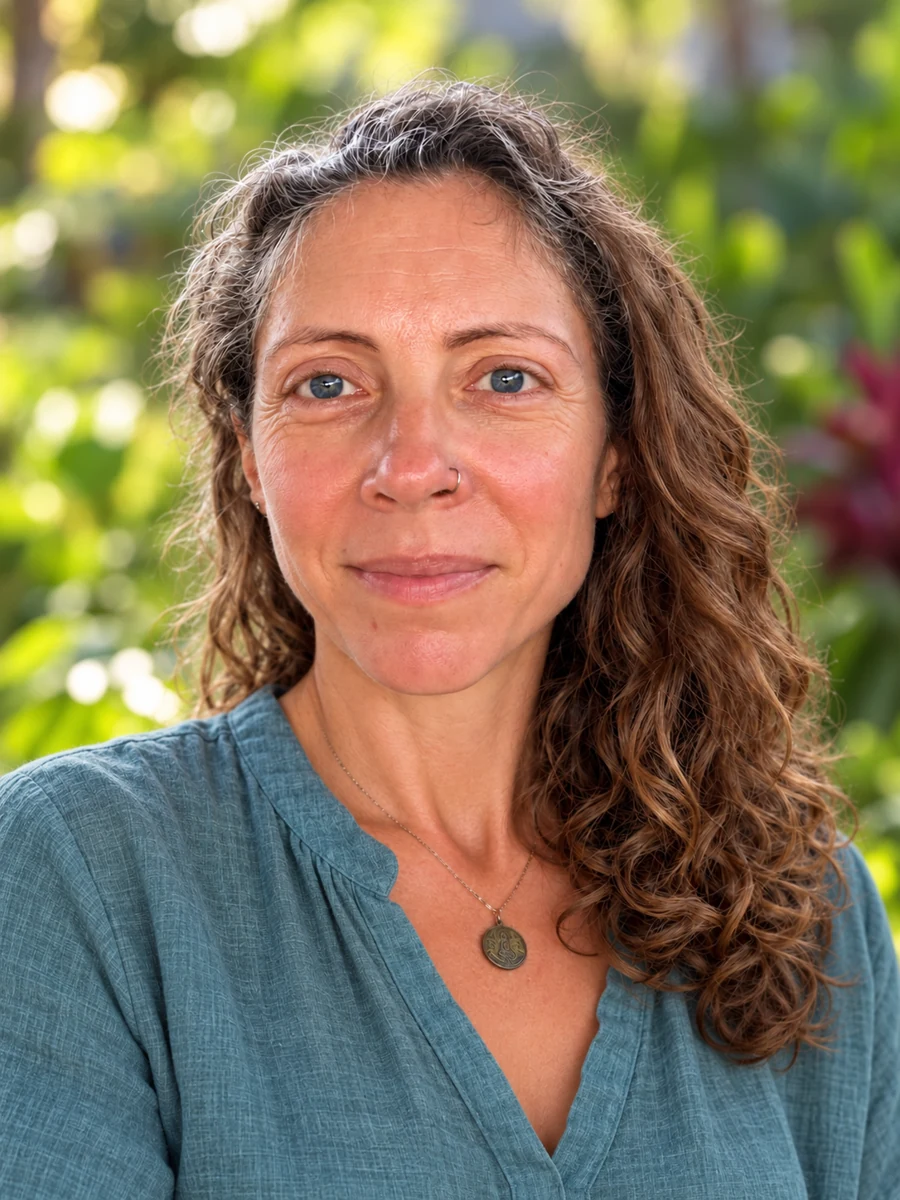
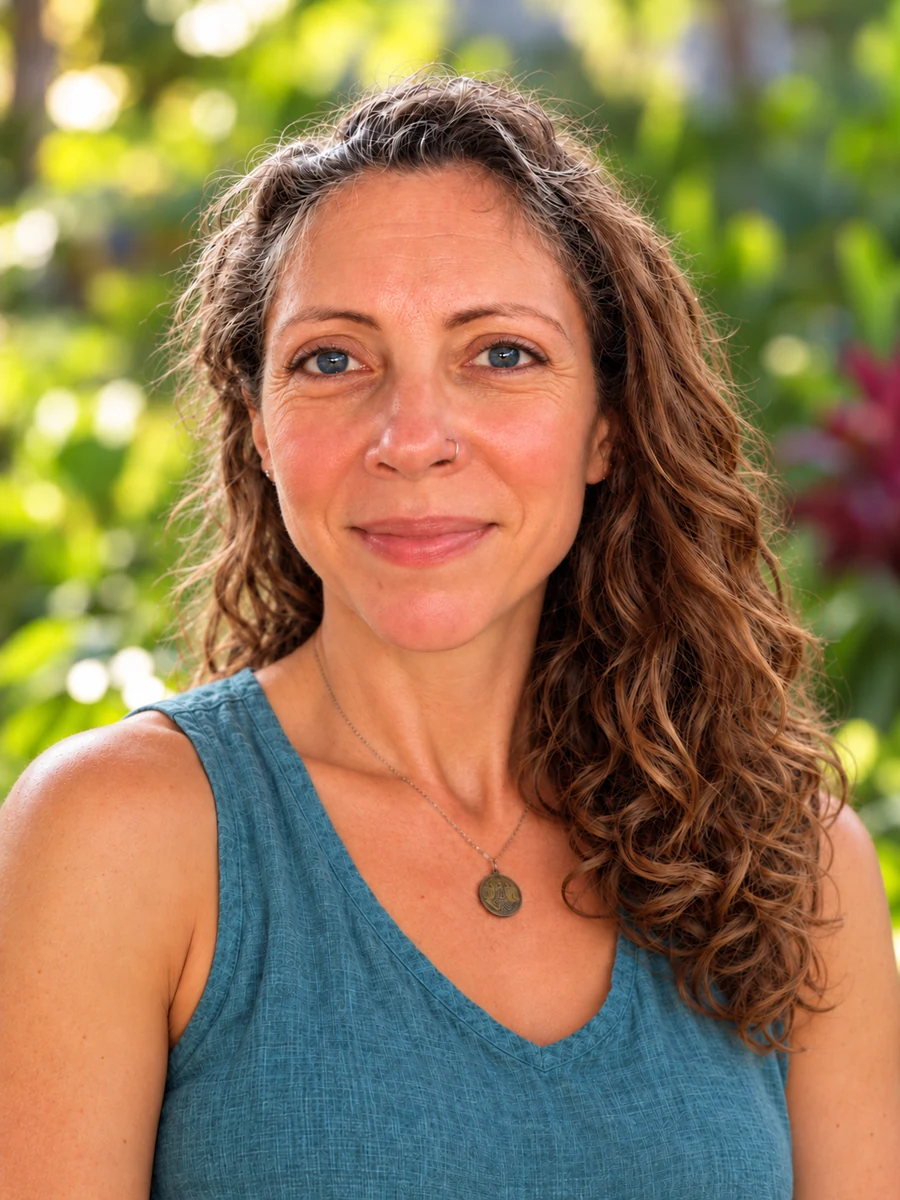
Refine biography layout, portrait, and editorial details

diff --git a/src/styles.css b/src/styles.css
@@ -1,10 +1,10 @@
 @import 'tailwindcss';
 @theme { --color-ocean: #193c4a; --color-ivory: #f4f0e8; --color-sage: #a5b5a4; --color-sand: #d4b18a; --color-forest: #35453d; }
 :root{font-family:'DM Sans',Arial,sans-serif;color:#193c4a;background:#f4f0e8;font-synthesis:none;text-rendering:optimizeLegibility;-webkit-font-smoothing:antialiased;--serif:'Cormorant Garamond',Georgia,serif;--line:rgba(25,60,74,.22)}
-*{box-sizing:border-box}html{scroll-behavior:smooth;scroll-padding-top:115px}body{margin:0}button,input,textarea{font:inherit}button,a,input,textarea,summary{-webkit-tap-highlight-color:transparent}a{color:inherit;text-underline-offset:5px}button,summary,a{touch-action:manipulation}a,button,summary{transition:color .2s,background .2s,transform .2s}a:focus-visible,button:focus-visible,summary:focus-visible,input:focus-visible,textarea:focus-visible{outline:3px solid #a54d35;outline-offset:5px}::selection{background:#d4b18a;color:#193c4a}h1,h2,h3,p,figure,blockquote{margin:0}h1,h2,h3{font-weight:400}h1,h2{font-family:var(--serif);text-wrap:balance}p{line-height:1.85}em{font-weight:400}svg{display:block}section{scroll-margin-top:20px}.skip-link{position:fixed;left:16px;top:-100px;background:#fff;padding:15px;z-index:100}.skip-link:focus{top:12px}.site-header{min-height:105px;display:flex;align-items:center;gap:36px;padding:18px 5%;border-bottom:1px solid var(--line);background:rgba(244,240,232,.97);position:sticky;top:0;z-index:20}.brand{font-family:var(--serif);font-size:27px;line-height:.9;letter-spacing:-.8px;text-decoration:none;flex-shrink:0}.brand span{display:block}.brand span+span{padding-left:18px;font-style:italic;font-size:34px}.brand .brand-dot{display:inline;padding:0;color:#a54d35}.navigation{display:flex;gap:25px;margin-left:auto;font-size:12px}.navigation a{text-decoration:none;white-space:nowrap;padding:12px 0}.navigation a:hover{color:#9d4935}.header-cta{display:flex;align-items:center;gap:16px;max-width:190px;text-decoration:none;font-size:11px;line-height:1.6;border-left:1px solid var(--line);padding:8px 0 8px 25px}.arrow{font-size:22px;line-height:1;display:inline-block;flex-shrink:0}.header-cta:hover .arrow,.cta:hover .arrow{transform:translate(2px,-2px)}.arrow{transition:transform .2s}.menu-toggle{display:none}.hero{display:grid;grid-template-columns:1.07fr 1fr;min-height:800px}.hero-content{padding:76px 10% 65px 9.5%;align-self:center;max-width:800px}.eyebrow,.micro,.section-marker,.step-meta,.footer-location{font-size:11px;letter-spacing:.12em}.eyebrow{text-transform:uppercase;display:block;margin-bottom:30px}.hero h1{font-size:clamp(70px,7.3vw,113px);line-height:.92;letter-spacing:-3px;margin-bottom:32px}.hero h1 em{color:#5b7563}.hero-content>p{font-size:14px;max-width:435px}.hero-content .hero-lead{font-size:19px;line-height:1.6;margin-bottom:18px}.cta{display:inline-flex;justify-content:space-between;align-items:center;gap:25px;padding:18px 23px;background:#193c4a;color:#f4f0e8;text-decoration:none;font-size:12px;font-weight:500;border:1px solid #193c4a;cursor:pointer;min-height:58px}.cta:hover{background:#354f43;border-color:#354f43}.cta:disabled{opacity:.65;cursor:default}.hero .cta{margin-top:29px}.hero-content .micro{font-size:9px;margin-top:14px;letter-spacing:.08em}.hero-visual{position:relative;margin:25px 25px 25px 0;min-height:700px;overflow:hidden;border-radius:210px 210px 0 0}.section{padding:95px max(6%,calc((100% - 1220px)/2))}.section-marker{display:flex;align-items:center;gap:24px;text-transform:uppercase;margin-bottom:52px;font-size:10px}.section-marker i{height:1px;background:currentColor;opacity:.25;flex:1}.two-column{display:grid;grid-template-columns:1fr 1.13fr;gap:10%}h2{font-size:clamp(46px,4.6vw,69px);line-height:1.04;letter-spacing:-1.5px}.prose{font-size:15px;max-width:635px}.prose p+p{margin-top:21px}.who{border-top:1px solid var(--line)}.who h2{max-width:410px}.who .prose p:last-child{font-weight:500}.philosophy{background:#193c4a;color:#f4f0e8}.philosophy h2 em{color:#c0cfb9}.philosophy .prose{color:#e0e3dc}.philosophy blockquote{font-family:var(--serif);font-size:clamp(38px,4.6vw,66px);font-style:italic;line-height:1.18;text-align:center;max-width:900px;margin:87px auto 5px;padding-top:65px;border-top:1px solid #ffffff30;text-wrap:balance;position:relative}.quote-mark{font-size:100px;position:absolute;top:-5px;left:calc(50% - 20px);color:#d4b18a}.section-intro{margin-bottom:60px}.steps{list-style:none;padding:0;margin:0}.step{display:grid;grid-template-columns:.28fr 1fr;gap:5%;padding:50px 0;border-top:1px solid var(--line)}.step-number{font-family:var(--serif);font-size:70px;color:#6c7b6c;line-height:1}.step h3{font-family:var(--serif);font-size:38px;line-height:1.2;margin-bottom:14px;letter-spacing:-.5px}.step-meta{text-transform:uppercase;font-size:10px;letter-spacing:.08em;margin-bottom:24px;font-weight:600}.step .prose{max-width:760px}.step .cta{margin-top:27px}.strategy{background:#e6e8df;padding:48px 36px;margin-inline:-36px;grid-template-columns:.28fr 1fr}.includes-label{font-size:14px;margin-top:30px;font-weight:600}.includes{list-style:none;padding:0;margin:18px 0 0;display:grid;gap:17px}.includes li{display:flex;align-items:start;gap:16px}.includes p{font-size:14px;line-height:1.75}.includes strong{font-weight:600}.small-mark{color:#566b57;font-size:22px}.about{background:#e9e1d4}.about-layout{display:grid;grid-template-columns:1fr 1.13fr;gap:10%}.serif-subtitle{font-family:var(--serif);font-size:30px;line-height:1.15;max-width:330px;margin-top:18px}.about-aside{align-self:start;position:sticky;top:140px}.biography p:first-child{font-size:20px;line-height:1.7}.biography p:nth-child(7){font-family:var(--serif);font-size:30px;line-height:1.3}.priorities{background:#d8dfd2;text-align:center}.priorities-inner{max-width:780px;margin:auto}.priorities h2{margin-bottom:36px}.priorities .prose{max-width:680px;margin:auto}.faq h2{max-width:350px}.questions details{border-top:1px solid var(--line)}.questions details:last-child{border-bottom:1px solid var(--line)}.questions summary{padding:25px 0;cursor:pointer;display:flex;align-items:center;justify-content:space-between;gap:24px;list-style:none;min-height:70px}.questions summary::-webkit-details-marker{display:none}.questions summary h3{font-size:16px;line-height:1.5;font-weight:500}.questions p{font-size:14px;padding:0 30px 27px 0}.disclosure-icon{font-size:26px;font-weight:300}.questions details[open] .disclosure-icon{transform:rotate(45deg)}.questions summary:hover{color:#8e4734}.contact{background:#193c4a;color:#f4f0e8}.contact h2{margin-bottom:32px}.contact .prose{color:#e1e3dc}.contact .prose p:last-child{color:#d4b18a}.form-panel{background:#f4f0e8;color:#193c4a;padding:35px 38px;align-self:start}.form-panel h3{font-family:var(--serif);font-size:32px;line-height:1.15;margin-bottom:30px}.field{margin-bottom:23px}.field label{display:block;font-size:12px;margin-bottom:9px}.field input,.field textarea{width:100%;border:1px solid #9da8a5;background:#faf8f3;border-radius:0;padding:12px;color:#193c4a;min-height:47px}.field textarea{resize:vertical}.form-panel .cta{width:100%}.form-note{font-size:11px;margin-top:14px}.email-alternative{font-size:12px;margin-top:25px;padding-top:20px;border-top:1px solid var(--line);overflow-wrap:anywhere}.form-feedback{padding:15px;margin-top:16px;font-size:13px;border:1px solid currentColor}.error{color:#8d3527}.success{color:#35453d}.footer{padding:55px 6% 25px}.footer-top{display:flex;justify-content:space-between;align-items:start;gap:30px}.footer-brand{font-size:13px;letter-spacing:.16em;text-decoration:none}.footer-tagline{font-family:var(--serif);font-size:32px;line-height:1.1}.footer-location{font-size:10px;letter-spacing:.04em;margin-top:25px}.footer-bottom{border-top:1px solid var(--line);margin-top:35px;padding-top:22px;display:flex;justify-content:space-between;gap:25px;align-items:center;font-size:9px}.footer-bottom a{white-space:nowrap}
+*{box-sizing:border-box}html{scroll-behavior:smooth;scroll-padding-top:115px}body{margin:0}button,input,textarea{font:inherit}button,a,input,textarea,summary{-webkit-tap-highlight-color:transparent}a{color:inherit;text-underline-offset:5px}button,summary,a{touch-action:manipulation}a,button,summary{transition:color .2s,background .2s,transform .2s}a:focus-visible,button:focus-visible,summary:focus-visible,input:focus-visible,textarea:focus-visible{outline:3px solid #a54d35;outline-offset:5px}::selection{background:#d4b18a;color:#193c4a}h1,h2,h3,p,figure,blockquote{margin:0}h1,h2,h3{font-weight:400}h1,h2{font-family:var(--serif);text-wrap:balance}p{line-height:1.85}em{font-weight:400}svg{display:block}section{scroll-margin-top:20px}.skip-link{position:fixed;left:16px;top:-100px;background:#fff;padding:15px;z-index:100}.skip-link:focus{top:12px}.site-header{min-height:105px;display:flex;align-items:center;gap:36px;padding:18px 5%;border-bottom:1px solid var(--line);background:rgba(244,240,232,.97);position:sticky;top:0;z-index:20}.brand{font-family:var(--serif);font-size:27px;line-height:.9;letter-spacing:-.8px;text-decoration:none;flex-shrink:0}.brand span{display:block}.brand span+span{padding-left:18px;font-style:italic;font-size:34px}.brand .brand-dot{display:inline;padding:0;color:#a54d35}.navigation{display:flex;gap:25px;margin-left:auto;font-size:12px}.navigation a{text-decoration:none;white-space:nowrap;padding:12px 0}.navigation a:hover{color:#9d4935}.header-cta{display:flex;align-items:center;gap:16px;max-width:190px;text-decoration:none;font-size:11px;line-height:1.6;border-left:1px solid var(--line);padding:8px 0 8px 25px}.arrow{font-size:22px;line-height:1;display:inline-block;flex-shrink:0}.header-cta:hover .arrow,.cta:hover .arrow{transform:translate(2px,-2px)}.arrow{transition:transform .2s}.menu-toggle{display:none}.hero{display:grid;grid-template-columns:1.07fr 1fr;min-height:800px}.hero-content{padding:76px 10% 65px 9.5%;align-self:center;max-width:800px}.eyebrow,.micro,.section-marker,.step-meta,.footer-location{font-size:11px;letter-spacing:.12em}.eyebrow{text-transform:uppercase;display:block;margin-bottom:30px}.hero h1{font-size:clamp(70px,7.3vw,113px);line-height:.92;letter-spacing:-3px;margin-bottom:32px}.hero h1 em{color:#5b7563}.hero-content>p{font-size:14px;max-width:435px}.hero-content .hero-lead{font-size:19px;line-height:1.6;margin-bottom:18px}.cta{display:inline-flex;justify-content:space-between;align-items:center;gap:25px;padding:18px 23px;background:#193c4a;color:#f4f0e8;text-decoration:none;font-size:12px;font-weight:500;border:1px solid #193c4a;cursor:pointer;min-height:58px}.cta:hover{background:#354f43;border-color:#354f43}.cta:disabled{opacity:.65;cursor:default}.hero .cta{margin-top:29px}.hero-content .micro{font-size:9px;margin-top:14px;letter-spacing:.08em}.hero-visual{position:relative;margin:25px 25px 25px 0;min-height:700px;overflow:hidden;border-radius:210px 210px 0 0}.section{padding:95px max(6%,calc((100% - 1220px)/2))}.section-marker{display:flex;align-items:center;gap:24px;text-transform:uppercase;margin-bottom:52px;font-size:10px}.section-marker i{height:1px;background:currentColor;opacity:.25;flex:1}.two-column{display:grid;grid-template-columns:1fr 1.13fr;gap:10%}h2{font-size:clamp(46px,4.6vw,69px);line-height:1.04;letter-spacing:-1.5px}.prose{font-size:15px;max-width:635px}.prose p+p{margin-top:21px}.who{border-top:1px solid var(--line)}.who h2{max-width:410px}.who .prose p:last-child{font-weight:500}.philosophy{background:#193c4a;color:#f4f0e8}.philosophy h2 em{color:#c0cfb9}.philosophy .prose{color:#e0e3dc}.philosophy blockquote{font-family:var(--serif);font-size:clamp(38px,4.6vw,66px);font-style:italic;line-height:1.18;text-align:center;max-width:900px;margin:87px auto 5px;padding-top:65px;border-top:1px solid #ffffff30;text-wrap:balance;position:relative}.quote-mark{font-size:100px;position:absolute;top:-5px;left:calc(50% - 20px);color:#d4b18a}.section-intro{margin-bottom:60px}.steps{list-style:none;padding:0;margin:0}.step{display:grid;grid-template-columns:.28fr 1fr;gap:5%;padding:50px 0;border-top:1px solid var(--line)}.step h3{font-family:var(--serif);font-size:38px;line-height:1.2;margin-bottom:14px;letter-spacing:-.5px}.step-meta{text-transform:uppercase;font-size:10px;letter-spacing:.08em;margin-bottom:24px;font-weight:600}.step .prose{max-width:760px}.step .cta{margin-top:27px}.strategy{background:#e6e8df;padding:48px 36px;margin-inline:-36px;grid-template-columns:.28fr 1fr}.includes-label{font-size:14px;margin-top:30px;font-weight:600}.includes{list-style:none;padding:0;margin:18px 0 0;display:grid;gap:17px}.includes li{display:flex;align-items:start;gap:16px}.includes p{font-size:14px;line-height:1.75}.includes strong{font-weight:600}.small-mark{color:#566b57;font-size:22px}.about{background:#e9e1d4}.about-layout{display:grid;grid-template-columns:1fr 1.13fr;gap:10%}.serif-subtitle{font-family:var(--serif);font-size:30px;line-height:1.15;max-width:330px;margin-top:18px}.about-aside{align-self:start;position:sticky;top:140px}.biography p:first-child{font-size:20px;line-height:1.7}.biography p:nth-child(7){font-family:var(--serif);font-size:30px;line-height:1.3}.priorities{background:#d8dfd2;text-align:center}.priorities-inner{max-width:780px;margin:auto}.priorities h2{margin-bottom:36px}.priorities .prose{max-width:680px;margin:auto}.faq h2{max-width:350px}.questions details{border-top:1px solid var(--line)}.questions details:last-child{border-bottom:1px solid var(--line)}.questions summary{padding:25px 0;cursor:pointer;display:flex;align-items:center;justify-content:space-between;gap:24px;list-style:none;min-height:70px}.questions summary::-webkit-details-marker{display:none}.questions summary h3{font-size:16px;line-height:1.5;font-weight:500}.questions p{font-size:14px;padding:0 30px 27px 0}.disclosure-icon{font-size:26px;font-weight:300}.questions details[open] .disclosure-icon{transform:rotate(45deg)}.questions summary:hover{color:#8e4734}.contact{background:#193c4a;color:#f4f0e8}.contact h2{margin-bottom:32px}.contact .prose{color:#e1e3dc}.contact .prose p:last-child{color:#d4b18a}.form-panel{background:#f4f0e8;color:#193c4a;padding:35px 38px;align-self:start}.form-panel h3{font-family:var(--serif);font-size:32px;line-height:1.15;margin-bottom:30px}.field{margin-bottom:23px}.field label{display:block;font-size:12px;margin-bottom:9px}.field input,.field textarea{width:100%;border:1px solid #9da8a5;background:#faf8f3;border-radius:0;padding:12px;color:#193c4a;min-height:47px}.field textarea{resize:vertical}.form-panel .cta{width:100%}.form-note{font-size:11px;margin-top:14px}.email-alternative{font-size:12px;margin-top:25px;padding-top:20px;border-top:1px solid var(--line);overflow-wrap:anywhere}.form-feedback{padding:15px;margin-top:16px;font-size:13px;border:1px solid currentColor}.error{color:#8d3527}.success{color:#35453d}.footer{padding:55px 6% 25px}.footer-top{display:flex;justify-content:space-between;align-items:start;gap:30px}.footer-brand{font-size:13px;letter-spacing:.16em;text-decoration:none}.footer-tagline{font-family:var(--serif);font-size:32px;line-height:1.1}.footer-location{font-size:10px;letter-spacing:.04em;margin-top:25px}.footer-bottom{border-top:1px solid var(--line);margin-top:35px;padding-top:22px;display:flex;justify-content:space-between;gap:25px;align-items:center;font-size:9px}.footer-bottom a{white-space:nowrap}
 @media(min-width:1600px){.hero{max-width:1600px;margin:auto}.hero-visual{margin-right:5%}}
 @media(max-width:1100px){.site-header{gap:20px;padding-inline:4%}.header-cta{display:none}.navigation{gap:24px}.hero{min-height:720px}.hero-content{padding:60px 8%}.hero h1{font-size:80px}.hero-visual{min-height:660px;margin:20px 20px 20px 0;border-radius:160px 160px 0 0}.two-column,.about-layout{gap:7%}.section{padding:75px 6%}.prose{font-size:14px}.footer-tagline{font-size:28px}}
-@media(max-width:760px){html{scroll-padding-top:100px}.site-header{min-height:85px;padding:16px 6%;justify-content:space-between}.brand{font-size:23px}.brand span+span{font-size:29px}.menu-toggle{display:flex;align-items:center;gap:20px;background:transparent;border:1px solid var(--line);padding:10px 14px;font-size:12px;min-height:44px}.navigation{display:none;position:absolute;top:100%;left:0;right:0;padding:15px 6% 25px;background:#f4f0e8;border-bottom:1px solid var(--line);box-shadow:0 15px 20px #193c4a10}.navigation.is-open{display:flex;flex-direction:column;gap:0}.navigation a{font-size:16px;padding:13px 0}.hero{grid-template-columns:1fr;min-height:auto}.hero-content{padding:47px 7% 40px;max-width:none}.eyebrow{font-size:10px;margin-bottom:24px}.hero h1{font-size:clamp(65px,12.5vw,94px);letter-spacing:-2px;margin-bottom:25px}.hero-content>p{max-width:560px}.hero-content .hero-lead{font-size:19px;max-width:520px}.hero-visual{height:430px;min-height:0;margin:0 7% 45px;border-radius:160px 160px 0 0}.hero .cta{font-size:11px;padding-inline:18px;gap:18px}.hero-content .micro{font-size:9px}.section{padding:60px 7%}.section-marker{margin-bottom:32px}.two-column,.about-layout{grid-template-columns:1fr;gap:28px}h2{font-size:49px;letter-spacing:-1px}.who h2,.faq h2{max-width:500px}.prose{font-size:15px}.philosophy h2 br{display:none}.philosophy h2 em{display:block}.philosophy blockquote{font-size:40px;padding-top:50px;margin-top:70px}.quote-mark{font-size:80px}.section-intro{margin-bottom:40px}.step{grid-template-columns:42px 1fr;gap:17px;padding:32px 0}.step-number{font-size:38px;padding-top:5px}.step h3{font-size:32px}.step-meta{font-size:9px;line-height:1.8}.step .prose{font-size:14px}.step .cta{font-size:10px;padding:14px;gap:12px}.strategy{margin-inline:-16px;padding:32px 16px}.includes p{font-size:13px}.includes li{gap:10px}.about-aside{position:static}.about-layout{gap:35px}.biography p:first-child{font-size:19px}.serif-subtitle{max-width:none;font-size:28px}.priorities h2{font-size:46px}.questions summary h3{font-size:15px}.form-panel{padding:28px 22px;margin-top:10px}.form-panel h3{font-size:30px}.footer{padding:40px 7% 25px}.footer-top{flex-direction:column;gap:24px}.footer-tagline{font-size:32px}.footer-bottom{flex-direction:column;align-items:start;gap:14px;font-size:10px}.footer-location{font-size:10px;line-height:1.8}}
+@media(max-width:760px){html{scroll-padding-top:100px}.site-header{min-height:85px;padding:16px 6%;justify-content:space-between}.brand{font-size:23px}.brand span+span{font-size:29px}.menu-toggle{display:flex;align-items:center;gap:20px;background:transparent;border:1px solid var(--line);padding:10px 14px;font-size:12px;min-height:44px}.navigation{display:none;position:absolute;top:100%;left:0;right:0;padding:15px 6% 25px;background:#f4f0e8;border-bottom:1px solid var(--line);box-shadow:0 15px 20px #193c4a10}.navigation.is-open{display:flex;flex-direction:column;gap:0}.navigation a{font-size:16px;padding:13px 0}.hero{grid-template-columns:1fr;min-height:auto}.hero-content{padding:47px 7% 40px;max-width:none}.eyebrow{font-size:10px;margin-bottom:24px}.hero h1{font-size:clamp(65px,12.5vw,94px);letter-spacing:-2px;margin-bottom:25px}.hero-content>p{max-width:560px}.hero-content .hero-lead{font-size:19px;max-width:520px}.hero-visual{height:430px;min-height:0;margin:0 7% 45px;border-radius:160px 160px 0 0}.hero .cta{font-size:11px;padding-inline:18px;gap:18px}.hero-content .micro{font-size:9px}.section{padding:60px 7%}.section-marker{margin-bottom:32px}.two-column,.about-layout{grid-template-columns:1fr;gap:28px}h2{font-size:49px;letter-spacing:-1px}.who h2,.faq h2{max-width:500px}.prose{font-size:15px}.philosophy h2 br{display:none}.philosophy h2 em{display:block}.philosophy blockquote{font-size:40px;padding-top:50px;margin-top:70px}.quote-mark{font-size:80px}.section-intro{margin-bottom:40px}.step{grid-template-columns:42px 1fr;gap:17px;padding:32px 0}.step h3{font-size:32px}.step-meta{font-size:9px;line-height:1.8}.step .prose{font-size:14px}.step .cta{font-size:10px;padding:14px;gap:12px}.strategy{margin-inline:-16px;padding:32px 16px}.includes p{font-size:13px}.includes li{gap:10px}.about-aside{position:static}.about-layout{gap:35px}.biography p:first-child{font-size:19px}.serif-subtitle{max-width:none;font-size:28px}.priorities h2{font-size:46px}.questions summary h3{font-size:15px}.form-panel{padding:28px 22px;margin-top:10px}.form-panel h3{font-size:30px}.footer{padding:40px 7% 25px}.footer-top{flex-direction:column;gap:24px}.footer-tagline{font-size:32px}.footer-bottom{flex-direction:column;align-items:start;gap:14px;font-size:10px}.footer-location{font-size:10px;line-height:1.8}}
 @media(prefers-reduced-motion:reduce){html{scroll-behavior:auto}*,*::before,*::after{animation:none!important;transition:none!important}}
 
 /* Cinematic, personal editorial direction. */
@@ -56,15 +56,11 @@
 .hero .cta { background: #f4f0e8; border-color: #f4f0e8; color: #193c4a; margin-top: 26px; padding: 18px 24px; }
 .hero .cta:hover { background: #e3c19b; border-color: #e3c19b; }
 .hero-content .micro { color: #e8ded0; font-size: 10px; }
-.hero-footnote { position: absolute; bottom: 28px; left: 6%; right: 6%; display: flex; justify-content: space-between; align-items: center; color: #f4f0e8; gap: 30px; font-size: 9px; letter-spacing: .06em; }
-.hero-footnote a { display: flex; align-items: center; gap: 22px; text-decoration: none; text-transform: uppercase; letter-spacing: .15em; font-size: 10px; min-height: 44px; }
-.hero-footnote a span { border: 1px solid #ffffff65; width: 36px; height: 36px; border-radius: 50%; display: grid; place-items: center; font-size: 18px; }
 .hero-orbits { position: absolute; width: 650px; height: 650px; bottom: -340px; right: -90px; border: 1px solid #f4f0e82b; border-radius: 50%; pointer-events: none; z-index: -1; }
 .hero-orbits span { position: absolute; inset: 65px; border: 1px solid #f4f0e82b; border-radius: 50%; }
 .hero-orbits span + span { inset: 130px; }
 .section { padding-block: 110px; }
 .section-marker { font-size: 11px; letter-spacing: .18em; margin-bottom: 60px; }
-.section-marker span::first-letter { color: #9c513c; }
 .who { border: 0; position: relative; background: #f4f0e8; }
 .who-story { grid-template-columns: 1fr 1fr; gap: 12%; }
 .who h2 { font-size: clamp(48px, 4.9vw, 74px); max-width: 490px; }
@@ -81,7 +77,6 @@
 .philosophy-heading { display: grid; grid-template-columns: 1fr 100px; align-items: center; gap: 6%; margin-bottom: 50px; }
 .philosophy-heading h2 { font-size: clamp(58px, 6.4vw, 95px); max-width: 1050px; line-height: 1; }
 .philosophy-heading h2 em { display: block; color: #61765c; padding-left: 8%; }
-.sun-mark { font-family: Georgia, serif; font-size: 100px; color: #a46348; font-weight: 400; }
 .philosophy .philosophy-prose { color: #193c4a; max-width: none; display: grid; grid-template-columns: 1fr 1fr; column-gap: 8%; row-gap: 25px; padding: 0 5% 65px; }
 .philosophy-prose p:first-child { grid-column: 1 / -1; max-width: 900px; font-size: 18px; }
 .philosophy-prose p + p { margin-top: 0; }
@@ -96,11 +91,9 @@
 .section-intro h2 { font-size: clamp(56px, 5.6vw, 84px); }
 .steps { position: relative; }
 .step { padding: 52px 0; grid-template-columns: 120px 1fr; gap: 5%; }
-.step-number { font-size: 64px; color: #8f614b; border: 1px solid #bb9e81; width: 92px; height: 92px; border-radius: 50%; display: grid; place-items: center; }
 .step h3 { font-size: 43px; }
 .step-meta { font-size: 11px; }
 .strategy { background: #354d42; color: #f4f0e8; padding: 55px 40px; margin-inline: -40px; border: 0; }
-.strategy .step-number { color: #e5c5a1; border-color: #aabd9a70; }
 .strategy .step-meta { color: #d6c1a4; }
 .strategy .prose { color: #e9ece3; }
 .strategy .includes-label { margin-top: 38px; }
@@ -110,18 +103,13 @@
 .includes p { color: #e5e9de; font-size: 13px; }
 .includes strong { display: block; margin-bottom: 8px; color: #fffaf1; }
 .about { background: #e9e0d2; position: relative; }
-.about-layout { gap: 12%; }
+.about-layout { column-gap: clamp(32px, 5vw, 64px); row-gap: 40px; }
 .biography p:first-child { font-size: 22px; }
 .biography p:nth-child(7) { color: #8e4c35; font-size: 35px; }
 .priorities { background: #d8dfd2; position: relative; isolation: isolate; overflow: hidden; }
 .priorities::before, .priorities::after { content: ''; position: absolute; border: 1px solid #5d745b30; border-radius: 50%; width: 900px; height: 900px; top: -60px; left: -600px; z-index: -1; }
 .priorities::after { left: auto; right: -600px; top: 160px; }
 .priorities h2 { font-size: clamp(57px, 6vw, 88px); line-height: 1.02; }
-.compass-flower { width: 80px; height: 80px; position: relative; margin: 0 auto 36px; }
-.compass-flower span { position: absolute; inset: 10px 26px; border: 1px solid #7b644b; border-radius: 50%; }
-.compass-flower span:nth-child(2) { transform: rotate(45deg); }
-.compass-flower span:nth-child(3) { transform: rotate(90deg); }
-.compass-flower span:nth-child(4) { transform: rotate(135deg); }
 .faq { background: #f7f3ec; }
 .questions summary h3 { font-family: var(--serif); font-size: 25px; font-weight: 400; }
 .questions summary { padding-block: 23px; }
@@ -145,9 +133,7 @@
   .section { padding-block: 85px; }
   .philosophy { padding-bottom: 0; }
   .philosophy-heading { grid-template-columns: 1fr 70px; }
-  .sun-mark { font-size: 75px; }
   .step { grid-template-columns: 90px 1fr; }
-  .step-number { width: 76px; height: 76px; font-size: 52px; }
   .strategy { margin-inline: -22px; padding-inline: 22px; }
   .includes { gap: 16px; }
   .garden-window { width: 86%; margin-left: 0; height: 320px; }
@@ -170,8 +156,6 @@
   .hero-shade { background: linear-gradient(90deg, #102f39d9, #102f3970), linear-gradient(0deg, #102f39ed 5%, #102f3990 55%, #102f3966); }
   .hero .cta { padding: 17px 18px; gap: 18px; font-size: 11px; }
   .hero-content .micro { font-size: 9px; }
-  .hero-footnote { bottom: 25px; left: 7%; right: 7%; align-items: start; flex-direction: column; gap: 12px; }
-  .hero-footnote > span { font-size: 8px; }
   .hero-orbits { right: -410px; bottom: -390px; }
   .section { padding-block: 65px; }
   .section-marker { margin-bottom: 35px; font-size: 10px; }
@@ -186,7 +170,6 @@
   .philosophy-heading { grid-template-columns: 1fr; gap: 25px; margin-bottom: 32px; }
   .philosophy-heading h2 { font-size: 56px; }
   .philosophy-heading h2 em { padding-left: 0; margin-top: 12px; }
-  .sun-mark { font-size: 65px; line-height: 1; text-align: right; }
   .philosophy .philosophy-prose { display: block; padding: 0 0 45px; }
   .philosophy-prose p:first-child { font-size: 17px; }
   .philosophy-prose p + p { margin-top: 22px; }
@@ -196,7 +179,6 @@
   .quote-mark { font-size: 85px; top: -10px; }
   .section-intro h2 { font-size: 57px; }
   .step { grid-template-columns: 1fr; gap: 23px; padding-block: 38px; }
-  .step-number { width: 65px; height: 65px; font-size: 43px; }
   .step h3 { font-size: 35px; }
   .step-meta { font-size: 10px; }
   .step .prose { font-size: 15px; }
@@ -238,4 +220,37 @@
   .portrait-photo { margin-top: 35px; max-width: 400px; }
   .global-quote > img { object-position: 72% center; }
   .global-quote::before { background: #112e35b8; }
+}
+
+/* Final editorial refinements: unnumbered chapters and closely paired biography. */
+.hero { min-height: 900px; }
+.hero-content { padding-bottom: 80px; }
+.step { grid-template-columns: minmax(0, 1fr); }
+.globe-mark { width: 100px; height: 100px; color: #966044; stroke: currentColor; stroke-width: 1.35; }
+.globe-orbit { opacity: .55; }
+.globe-star { fill: #966044; stroke: none; }
+.lotus-mark { width: 105px; height: 80px; margin: 0 auto 35px; color: #7b644b; stroke: currentColor; stroke-width: 1.5; stroke-linecap: round; stroke-linejoin: round; }
+.about { padding-bottom: 150px; }
+.about-heading { margin-bottom: 48px; }
+.about-heading .serif-subtitle { max-width: none; }
+.about-layout { grid-template-columns: minmax(0, 350px) minmax(0, 1fr); align-items: start; }
+.about-layout > * { min-width: 0; }
+.about-aside { position: sticky; top: 135px; }
+.about .portrait-photo { width: 100%; max-width: none; margin: 0; }
+.biography { max-width: none; padding-bottom: 25px; }
+.biography p:last-child { margin-bottom: 0; }
+@media (max-width: 1100px) {
+  .about-layout { grid-template-columns: minmax(0, .85fr) minmax(0, 1.15fr); }
+  .globe-mark { width: 75px; height: 75px; }
+}
+@media (max-width: 760px) {
+  .hero { min-height: 0; }
+  .hero-content { padding-bottom: 75px; }
+  .globe-mark { width: 75px; height: 75px; justify-self: end; }
+  .about { padding-bottom: 100px; }
+  .about-heading { margin-bottom: 40px; }
+  .about-layout { grid-template-columns: minmax(0, 1fr); row-gap: 38px; column-gap: 0; }
+  .about-aside { position: static; }
+  .about .portrait-photo { width: calc(100% - 26px); max-width: 380px; margin: 0 auto; }
+  .biography { padding-bottom: 20px; }
 }

diff --git a/src/App.tsx b/src/App.tsx
@@ -101,34 +101,33 @@ export default function App() {
         </div>
         <div className="hero-visual"><img src="/images/island-dawn.webp" srcSet="/images/island-dawn-mobile.webp 800w, /images/island-dawn.webp 1536w" sizes="100vw" width="1536" height="1024" alt="" fetchPriority="high"/><div className="hero-shade"/></div>
         <div className="hero-orbits" aria-hidden="true"><span/><span/></div>
-        <div className="hero-footnote"><a href="#philosophy">Philosophy <span aria-hidden="true">↓</span></a><span>Hawaiʻi-inspired landscape · AI-created artwork</span></div>
       </section>
       <section className="section who" aria-labelledby="who-title">
-        <div className="section-marker" aria-hidden="true"><span>01</span><i/></div>
         <div className="two-column who-story"><div className="reveal"><h2 id="who-title" data-copy="5">You can have a good life <em>and still want more from it.</em></h2><figure className="garden-window"><img src="/images/garden-path.webp" alt="Sunlight along a lush island-inspired garden path; AI-created landscape artwork." width="1024" height="1024" loading="lazy" decoding="async"/><span className="window-orbit" aria-hidden="true"/></figure></div><div className="prose reveal"><Paragraphs from={6} to={9}/></div></div>
       </section>
       <section className="section philosophy" id="philosophy" aria-labelledby="philosophy-title">
-        <div className="section-marker"><span>02 / Philosophy</span><i/></div>
-        <div className="philosophy-heading reveal"><h2 id="philosophy-title" data-copy="10">Create the life you want. <em>Enjoy the life you have.</em></h2><span className="sun-mark" aria-hidden="true">✳</span></div>
+        <div className="section-marker"><span>Philosophy</span><i/></div>
+        <div className="philosophy-heading reveal"><h2 id="philosophy-title" data-copy="10">Create the life you want. <em>Enjoy the life you have.</em></h2><svg className="globe-mark" viewBox="0 0 100 100" fill="none" aria-hidden="true"><circle cx="50" cy="50" r="34"/><ellipse cx="50" cy="50" rx="15" ry="34"/><path d="M16 50h68M22 31c17 10 39 10 56 0M22 69c17-10 39-10 56 0"/><path className="globe-orbit" d="M10 73C-5 48 68-6 89 27s-43 74-69 59"/><circle className="globe-star" cx="88" cy="26" r="3"/></svg></div>
         <div className="philosophy-prose prose reveal"><Paragraphs from={11} to={15}/></div>
         <div className="quote-landscape global-quote reveal"><img src="/images/global-perspective.webp" alt="" width="1536" height="1024" loading="lazy" decoding="async"/><blockquote data-copy="16"><span className="quote-mark" aria-hidden="true">“</span>{text(16)}</blockquote><span className="quote-orbit" aria-hidden="true"/></div>
       </section>
       <section className="section work" id="work-with-me" aria-labelledby="work-title">
-        <div className="section-marker"><span>03 / Work With Me</span><i/></div>
+        <div className="section-marker"><span>Work With Me</span><i/></div>
         <div className="two-column section-intro reveal"><h2 id="work-title" data-copy="17">{text(17)}</h2><div className="prose"><Paragraphs from={18} to={20}/></div></div>
         <ol className="steps">
-          <li className="step reveal"><span className="step-number" aria-hidden="true">01</span><div><h3 data-copy="21">{text(21)}</h3><p className="step-meta" data-copy="22">{text(22)}</p><div className="prose"><Paragraphs from={23} to={25}/></div><IntroLink/></div></li>
-          <li className="step strategy reveal"><span className="step-number" aria-hidden="true">02</span><div><h3 data-copy="27">{text(27)}</h3><p className="step-meta" data-copy="28">{text(28)}</p><div className="prose"><Paragraphs from={29} to={31}/></div><p className="includes-label" data-copy="32">{text(32)}</p><ul className="includes">{[33,34,35].map(i => { const split = text(i).indexOf(':'); return <li key={i} data-copy={i}><span className="small-mark" aria-hidden="true">↗</span><p><strong>{text(i).slice(0,split+1)}</strong>{text(i).slice(split+1)}</p></li> })}</ul></div></li>
-          <li className="step reveal"><span className="step-number" aria-hidden="true">03</span><div><h3 data-copy="36">{text(36)}</h3><div className="prose"><Paragraphs from={37} to={39}/></div></div></li>
+          <li className="step reveal"><div><h3 data-copy="21">{text(21)}</h3><p className="step-meta" data-copy="22">{text(22)}</p><div className="prose"><Paragraphs from={23} to={25}/></div><IntroLink/></div></li>
+          <li className="step strategy reveal"><div><h3 data-copy="27">{text(27)}</h3><p className="step-meta" data-copy="28">{text(28)}</p><div className="prose"><Paragraphs from={29} to={31}/></div><p className="includes-label" data-copy="32">{text(32)}</p><ul className="includes">{[33,34,35].map(i => { const split = text(i).indexOf(':'); return <li key={i} data-copy={i}><span className="small-mark" aria-hidden="true">↗</span><p><strong>{text(i).slice(0,split+1)}</strong>{text(i).slice(split+1)}</p></li> })}</ul></div></li>
+          <li className="step reveal"><div><h3 data-copy="36">{text(36)}</h3><div className="prose"><Paragraphs from={37} to={39}/></div></div></li>
         </ol>
       </section>
       <section className="section about" id="about" aria-labelledby="about-title">
-        <div className="section-marker"><span>04 / About</span><i/></div>
-        <div className="about-layout reveal"><div className="about-aside"><h2 id="about-title" data-copy="40">{text(40)}</h2><p className="serif-subtitle" data-copy="41">{text(41)}</p><figure className="portrait-photo"><img src="/images/lyla-portrait.webp" alt="Lyla Bashan" width="900" height="1200" loading="lazy" decoding="async"/></figure></div><div className="prose biography"><Paragraphs from={42} to={50}/></div></div>
+        <div className="section-marker"><span>About</span><i/></div>
+        <div className="about-heading"><h2 id="about-title" data-copy="40">{text(40)}</h2><p className="serif-subtitle" data-copy="41">{text(41)}</p></div>
+        <div className="about-layout"><div className="about-aside"><figure className="portrait-photo"><img src="/images/lyla-portrait.webp" alt="Lyla Bashan" width="900" height="1200" loading="lazy" decoding="async"/></figure></div><div className="prose biography"><Paragraphs from={42} to={50}/></div></div>
       </section>
-      <section className="section priorities" aria-labelledby="priorities-title"><div className="priorities-inner reveal"><div className="compass-flower" aria-hidden="true"><span/><span/><span/><span/></div><h2 id="priorities-title" data-copy="51">{text(51)}</h2><div className="prose"><Paragraphs from={52} to={55}/></div></div></section>
-      <section className="section faq" id="faq" aria-labelledby="faq-title"><div className="section-marker"><span>05 / FAQ</span><i/></div><div className="two-column reveal"><h2 id="faq-title" data-copy="56">{text(56)}</h2><div className="questions">{[57,59,61,63,65].map(i => <details key={i}><summary><h3 data-copy={i}>{text(i)}</h3><span aria-hidden="true" className="disclosure-icon">+</span></summary><p data-copy={i+1}>{text(i+1)}</p></details>)}</div></div></section>
-      <section className="section contact" id="contact" aria-labelledby="contact-title"><div className="section-marker"><span>06 / Contact</span><i/></div><div className="two-column"><div><h2 id="contact-title" data-copy="67">{text(67)}</h2><div className="prose"><Paragraphs from={68} to={71}/></div></div><ContactForm/></div></section>
+      <section className="section priorities" aria-labelledby="priorities-title"><div className="priorities-inner reveal"><svg className="lotus-mark" viewBox="0 0 120 90" fill="none" aria-hidden="true"><path d="M60 71C39 58 38 36 60 12c22 24 21 46 0 59Z"/><path d="M59 71C33 73 15 53 17 29c28 2 43 19 42 42ZM61 71c26 2 44-18 42-42-28 2-43 19-42 42Z"/><path d="M58 73C30 86 10 72 5 51c23-6 42 3 53 22ZM62 73c28 13 48-1 53-22-23-6-42 3-53 22Z"/><path d="M28 84h64"/></svg><h2 id="priorities-title" data-copy="51">{text(51)}</h2><div className="prose"><Paragraphs from={52} to={55}/></div></div></section>
+      <section className="section faq" id="faq" aria-labelledby="faq-title"><div className="section-marker"><span>FAQ</span><i/></div><div className="two-column reveal"><h2 id="faq-title" data-copy="56">{text(56)}</h2><div className="questions">{[57,59,61,63,65].map(i => <details key={i}><summary><h3 data-copy={i}>{text(i)}</h3><span aria-hidden="true" className="disclosure-icon">+</span></summary><p data-copy={i+1}>{text(i+1)}</p></details>)}</div></div></section>
+      <section className="section contact" id="contact" aria-labelledby="contact-title"><div className="section-marker"><span>Contact</span><i/></div><div className="two-column"><div><h2 id="contact-title" data-copy="67">{text(67)}</h2><div className="prose"><Paragraphs from={68} to={71}/></div></div><ContactForm/></div></section>
     </main>
     <footer className="footer"><div className="footer-top"><a href="#top" className="footer-brand" data-copy="80">{text(80)}</a><p className="footer-tagline" data-copy="81">{text(81)}</p></div><p className="footer-location" data-copy="82">{text(82)}</p><div className="footer-bottom"><p data-copy="83">{text(83)}</p><p data-copy="84">{text(84)}</p><a href="#top">Back to top ↑</a></div></footer>
   </>

diff --git a/README.md b/README.md
@@ -39,11 +39,11 @@ scripts/check-copy.mjs     Copy and deployment-contract verification
 netlify.toml               Build settings, Node version, security headers
 ```
 
-Approved copy was transcribed verbatim from the supplied master prompt. The duplicate About heading pair is displayed once. Editorial CTA brackets and the `Contact form:` instruction are omitted from visible prose. The single-page reading order follows the source. Site controls, artwork labels, and honest form feedback are functional UI text.
+Approved copy follows the supplied master prompt, with the owner-requested diplomatic-skills biography amendment recorded in `src/copy.json`. The duplicate About heading pair is displayed once. Editorial CTA brackets and the `Contact form:` instruction are omitted from visible prose. The single-page reading order follows the source. Site controls, artwork labels, and honest form feedback are functional UI text.
 
 ## Visual assets and fonts
 
-The hero and garden imagery are original AI-created landscape artworks, optimized as locally hosted WebP assets. They evoke island coastlines and gardens without claiming to document a specific real location. The hero image is visibly identified as AI-created artwork; the garden image has an equivalent accessible description. The About portrait is the owner-supplied relaxed garden headshot, optimized without retouching. See `public/images/ASSETS.md` for generation prompts and provenance. Portrait source and replacement instructions are in `public/images/README.md`. Licensed photography is optional; the site is complete without it. No images, code, or branding assets were copied from the broad reference website.
+The hero and garden imagery are original AI-created landscape artworks, optimized as locally hosted WebP assets. They evoke island coastlines and gardens without claiming to document a specific real location. The scenery provenance is documented here and in `public/images/ASSETS.md`; the hero caption was removed at the owner’s request. The About portrait is the owner-supplied warm teal garden portrait, optimized without retouching. See `public/images/ASSETS.md` for generation prompts and provenance. Portrait source and replacement instructions are in `public/images/README.md`. Licensed photography is optional; the site is complete without it. No images, code, or branding assets were copied from the broad reference website.
 
 Cormorant Garamond and DM Sans are bundled locally through Fontsource packages, with only Latin weights used by the page imported. They are licensed under the SIL Open Font License; see the license notices distributed in `public/licenses/`. No third-party font requests are made. System fallbacks are available.
 

diff --git a/public/images/README.md b/public/images/README.md
@@ -1,6 +1,6 @@
 # Portrait and optional imagery
 
-`lyla-portrait.webp` uses the owner-supplied **Relaxed Hawai‘i garden headshot.png**, selected for its warm expression and natural, approachable framing. It was resized proportionally to 900 × 1200 and encoded as WebP for performance. No retouching, face generation, or color alterations were applied. The original remains in the owner's Downloads folder. Do not replace the portrait with an invented likeness.
+`lyla-portrait.webp` uses the owner-supplied **Warm Teal Portrait in a Garden.png**, selected for its warm expression and natural, approachable framing. It was resized proportionally to 900 × 1200 and encoded as WebP for performance. No retouching, face generation, or color alterations were applied. The original remains in the owner's Downloads folder. Do not replace the portrait with an invented likeness.
 
 To replace it later, add an approved 3:4 portrait as `public/images/lyla-portrait.webp`, update its intrinsic dimensions in `src/App.tsx` if needed, and verify the face and crop at mobile and desktop widths. Record any photographer attribution requirements here.
 
